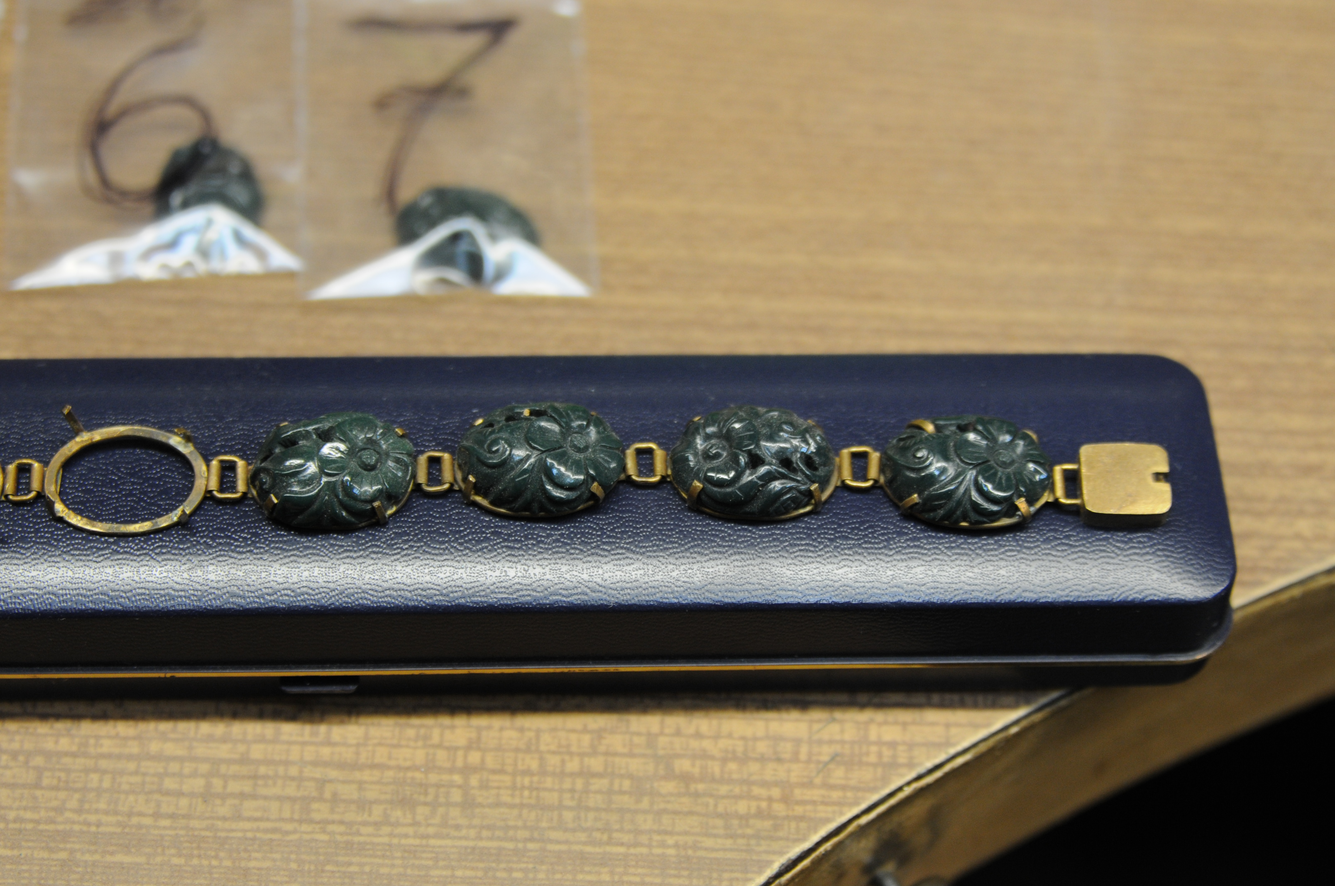
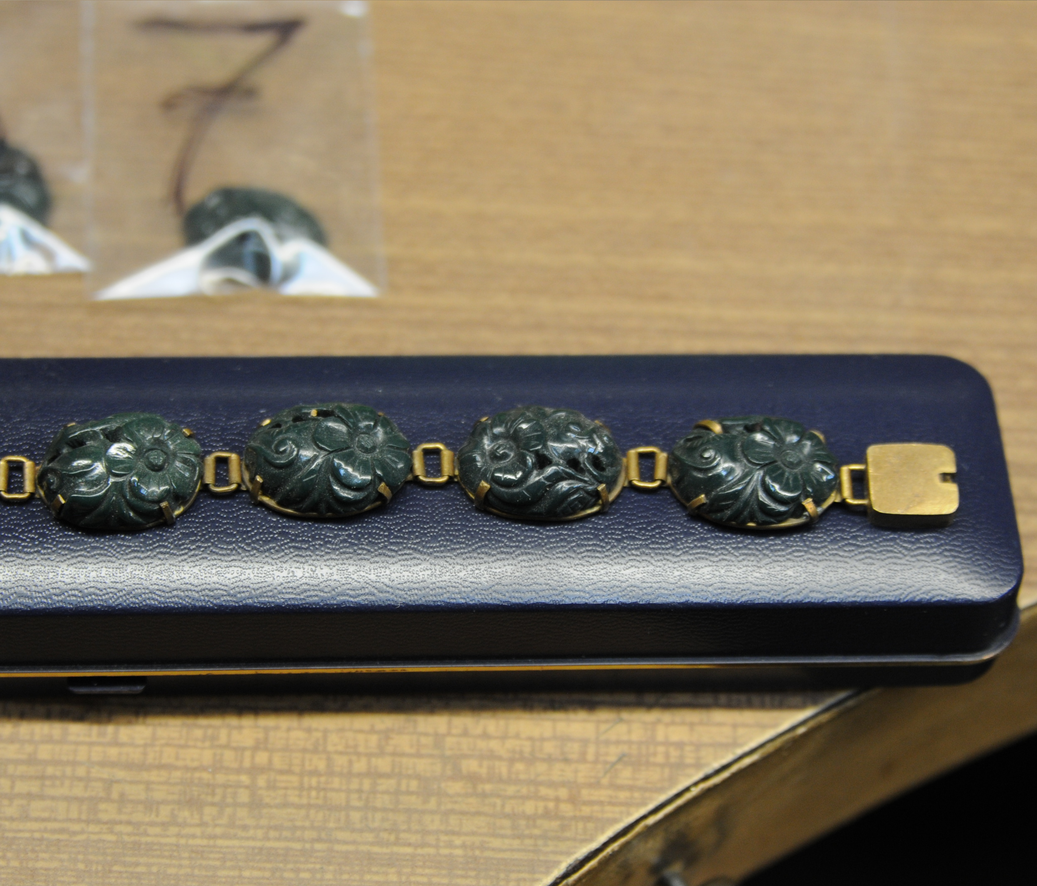
Update portfolio items

diff --git a/portfolio.html b/portfolio.html
@@ -154,18 +154,28 @@
                     <img src="img/portfolio/bizuteria-drobna/sq/pierścionek-z-diamentem.jpg" loading="lazy" alt="pierścionek-z-diamentem.jpg" class="img-fluid" />
                     <figcaption>
                         <h2>Pierścionek z Diamentem</h2>
-                        <p>Został wykonany z białego, jak i żółtego złota, projektu własnego.</p>
+                        <p>Został wykonany z białego i żółtego złota, projekt własny.</p>
                         <a href="img/portfolio/bizuteria-drobna/pierścionek-z-diamentem.jpg" loading="lazy"  alt="pierścionek-z-diamentem.jpg"></a>
                     </figcaption>
                 </figure>
             </div>
-            <div class="jp-gallery-item wszystko">
+            <div class="jp-gallery-item wszystko wyrob_korpusowy">
                 <figure class="effect-bubba">
                     <img src="img/portfolio/inne/sq/renowacja-zegarek.jpg" loading="lazy" alt="renowacja-zegarek.jpg" class="img-fluid" />
                     <figcaption>
                         <h2>Renowacja Zegarka</h2>
-                        <p>Zniszczony, stary, ale działający zegarek. Przeszedł renowacje, według projektu własnego.</p>
+                        <p>Zniszczony, stary, ale działający zegarek. Przeszedł renowacje i rozbudowę według mojego projektu.</p>
                         <a href="img/portfolio/inne/renowacja-zegarek.jpg" loading="lazy"  alt="renowacja-zegarek.jpg"></a>
+                    </figcaption>
+                </figure>
+            </div>
+            <div class="jp-gallery-item wszystko wyrob_korpusowy">
+                <figure class="effect-bubba">
+                    <img src="img/portfolio/inne/sq/renowacja-zegarek-1.jpg" loading="lazy" alt="renowacja-zegarek.jpg" class="img-fluid" />
+                    <figcaption>
+                        <h2>Renowacja Zegarka</h2>
+                        <p>Wygląd przed naprawą.</p>
+                        <a href="img/portfolio/inne/renowacja-zegarek-1.jpg" loading="lazy"  alt="renowacja-zegarek.jpg"></a>
                     </figcaption>
                 </figure>
             </div>
@@ -174,7 +184,7 @@
                     <img src="img/portfolio/bizuteria-drobna/sq/jemioła-broszka.jpg" loading="lazy" alt="jemioła-broszka.jpg" class="img-fluid" />
                     <figcaption>
                         <h2>Broszka - "Jemioła"</h2>
-                        <p>Projekt własny z pomocą natury. Wykonana została z złota i pereł hodowlanych.</p>
+                        <p>Projekt własny z pomocą natury. Wykonana ze złota z perełami hodowlanymi.</p>
                         <a href="img/portfolio/bizuteria-drobna/jemioła-broszka.jpg" loading="lazy" alt="jemioła-broszka.jpg"></a>
                     </figcaption>
                 </figure>
@@ -183,8 +193,8 @@
                 <figure class="effect-bubba">
                     <img src="img/portfolio/bizuteria-drobna/sq/wysadzana-broszka.jpg" loading="lazy" alt="wysadzana-broszka.jpg" class="img-fluid" />
                     <figcaption>
-                        <h2>Wysadzana broszka?</h2>
-                        <p>Czy to broszka?</p>
+                        <h2>Złota spinka do włosów</h2>
+                        <p>Spinka do włosów, złoto z kamieniami. Projekt z katalogu ale całkowicie zmieniony.</p>
                         <a href="img/portfolio/bizuteria-drobna/wysadzana-broszka.jpg" loading="lazy" alt="wysadzana-broszka.jpg"></a>
                     </figcaption>
                 </figure>
@@ -193,8 +203,8 @@
                 <figure class="effect-bubba">
                     <img src="img/portfolio/bizuteria-drobna/sq/kolia-z-onyksem.jpg" loading="lazy" alt="kolia-z-onyksem.jpg" class="img-fluid" />
                     <figcaption>
-                        <h2>Kolia z Onyksem</h2>
-                        <p>Wykonana z srebra, według projektu własnego.</p>
+                        <h2>Srebrna kolia z kamieniem ozdobnym</h2>
+                        <p>Wykonana z srebra, według własnego projektu.</p>
                         <a href="img/portfolio/bizuteria-drobna/kolia-z-onyksem.jpg" loading="lazy" alt="kolia-z-onyksem.jpg"></a>
                     </figcaption>
                 </figure>
@@ -204,7 +214,7 @@
                     <img src="img/portfolio/bizuteria-drobna/sq/broszka-kij-golfowy.jpg" loading="lazy" alt="broszka-kij-golfowy.jpg" class="img-fluid" />
                     <figcaption>
                         <h2>Broszka - Kij Golfowy</h2>
-                        <p>Wykonany z złota białego i żółtego oraz diamentu i brylantów. Projekt i wykonanie moje.</p>
+                        <p>Broszka wykonana ze złota białego i żółtego oraz diamentu i brylantów. Projekt własny.</p>
                         <a href="img/portfolio/bizuteria-drobna/broszka-kij-golfowy.jpg" loading="lazy" alt="broszka-kij-golfowy.jpg"></a>
                     </figcaption>
                 </figure>
@@ -224,8 +234,18 @@
                     <img src="img/portfolio/bizuteria-drobna/sq/renowacja-bransolety.jpg" loading="lazy" alt="renowacja-bransolety.jpg" class="img-fluid" />
                     <figcaption>
                         <h2>Renowacja starej bransoletki</h2>
-                        <p>Chaczyła o ubrania i gubiła kamienie, których było szkoda, wykonałem całą konstrukcje nośną, by usunąć wady. Udało się.</p>
+                        <p>Chaczyła o ubrania i gubiła kamienie, których było szkoda, wykonałem nową konstrukcje nośną, by usunąć wady. Udało się.</p>
                         <a href="img/portfolio/bizuteria-drobna/renowacja-bransolety.jpg" loading="lazy" alt="renowacja-bransolety.jpg"></a>
+                    </figcaption>
+                </figure>
+            </div>
+            <div class="jp-gallery-item wszystko bizuteria-drobna">
+                <figure class="effect-bubba">
+                    <img src="img/portfolio/bizuteria-drobna/sq/renowacja-bransolety-3.jpg" loading="lazy" alt="renowacja-bransolety.jpg" class="img-fluid" />
+                    <figcaption>
+                        <h2>Renowacja starej bransoletki</h2>
+                        <p>Tutaj jescze w starym wydaniu, wersja oryginalna.</p>
+                        <a href="img/portfolio/bizuteria-drobna/renowacja-bransolety-3.jpg" loading="lazy" alt="renowacja-bransolety.jpg"></a>
                     </figcaption>
                 </figure>
             </div>
